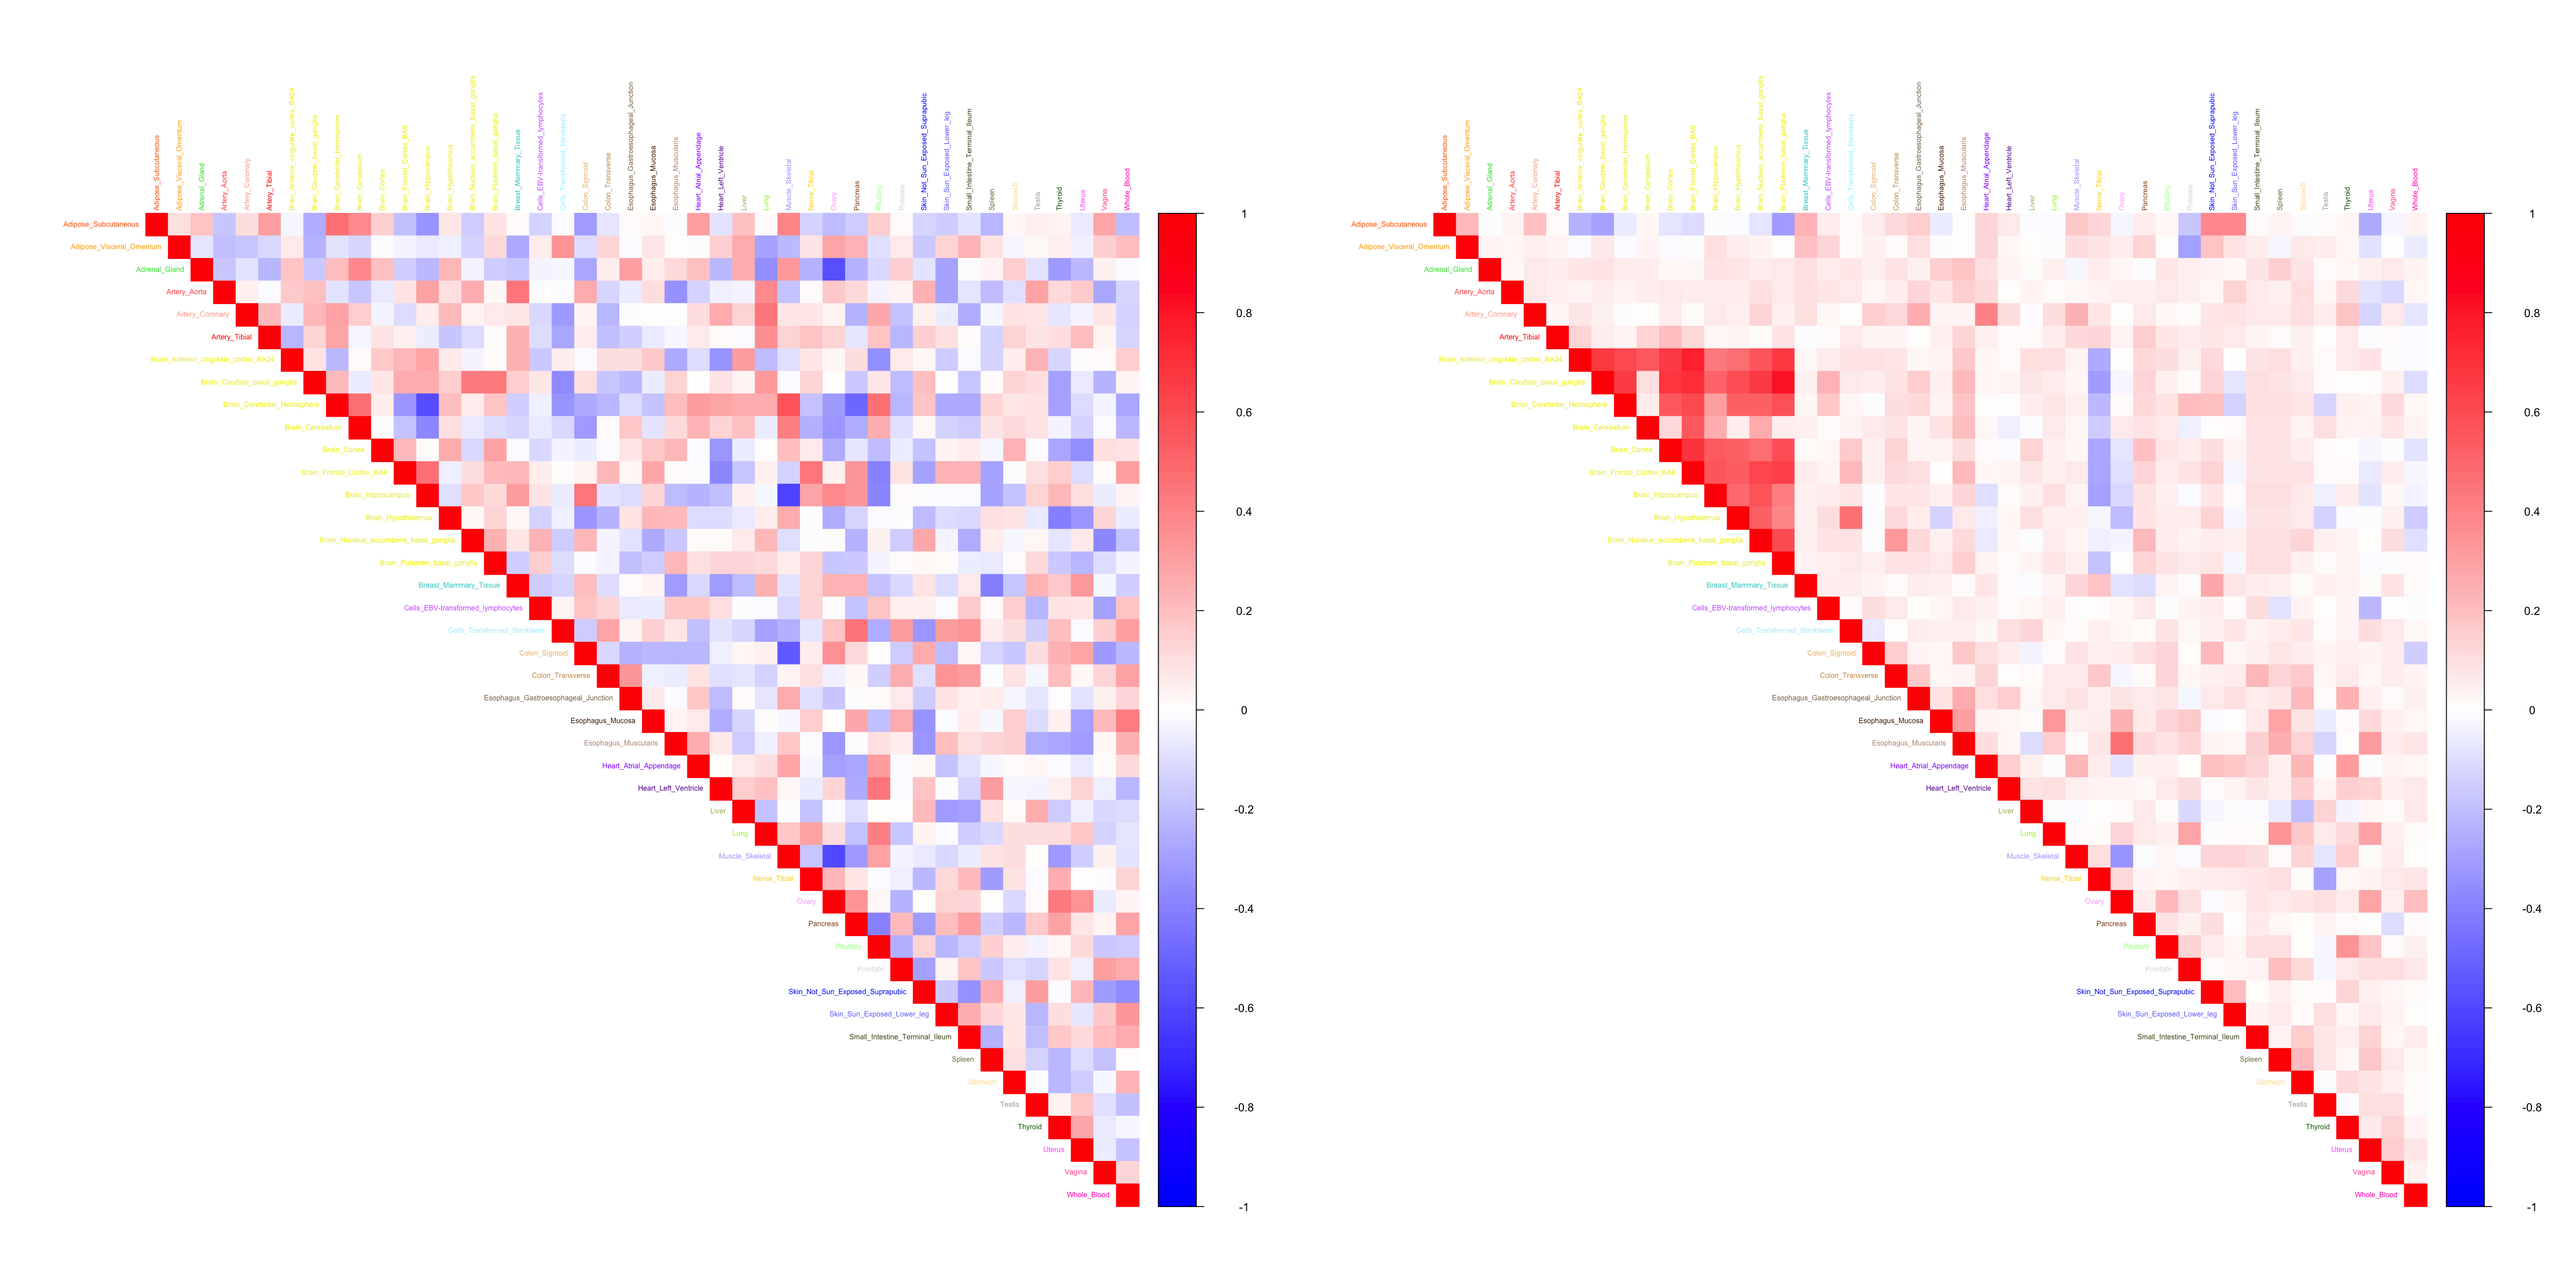
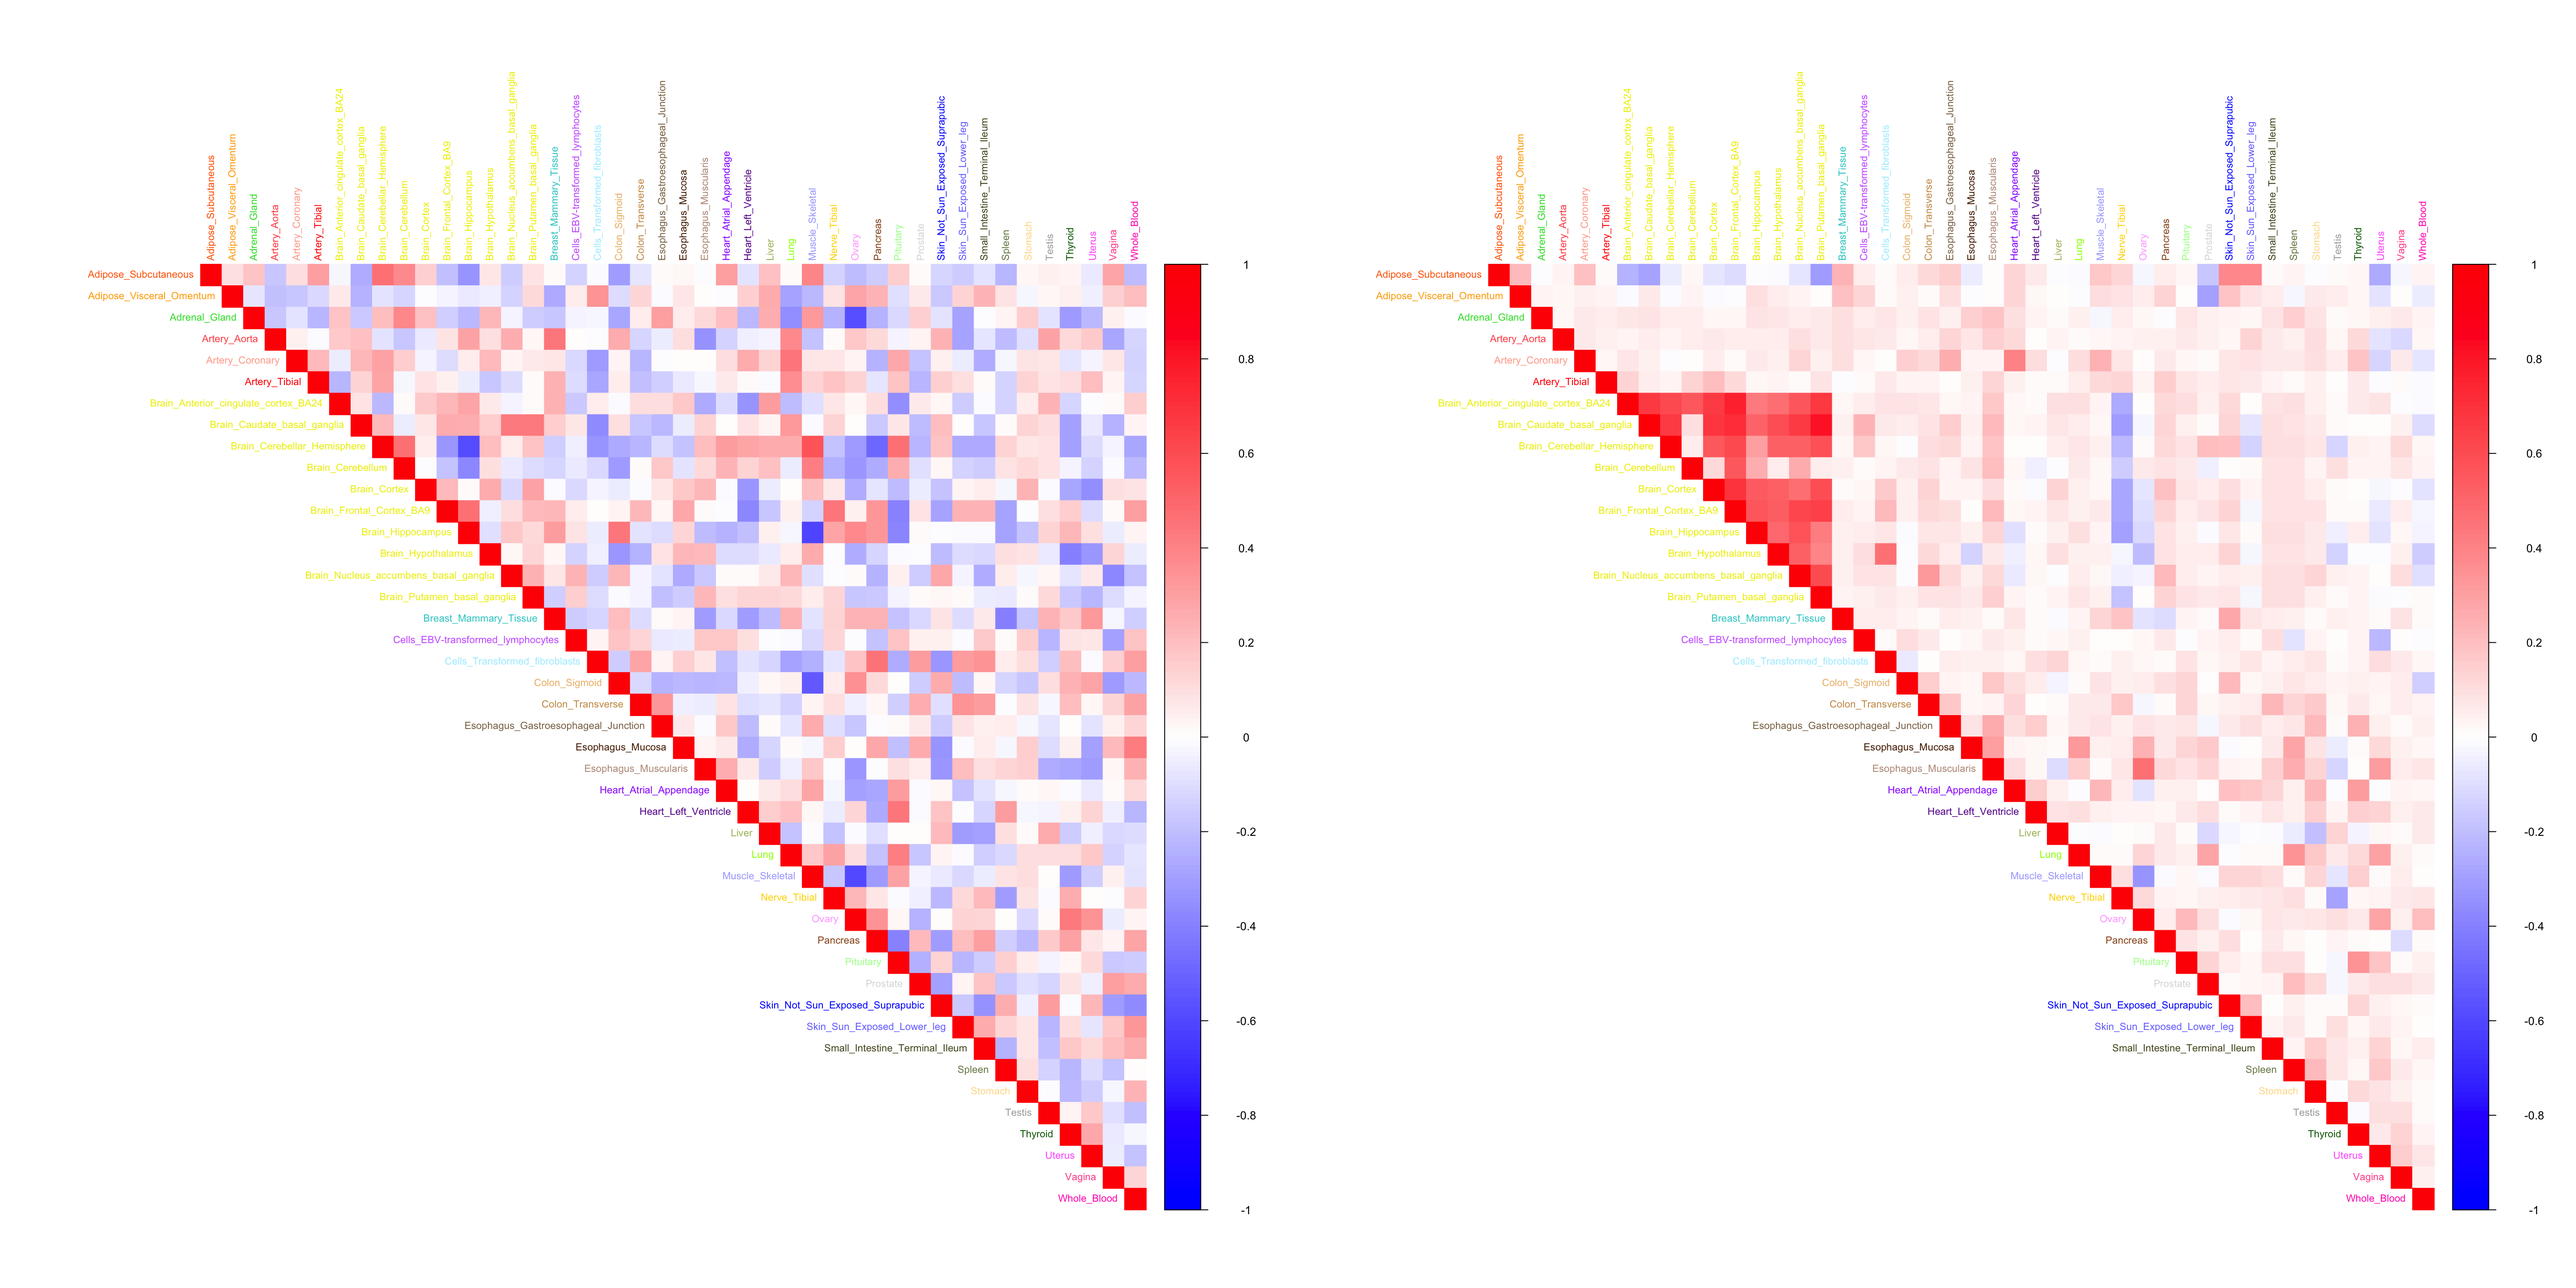
Build site.

Changed region(s): [[0.0312, 0.0938, 0.4688, 0.9375], [0.5312, 0.0938, 0.9688, 0.9375]]

diff --git a/docs/CorShrinkEQTL.html b/docs/CorShrinkEQTL.html
@@ -460,7 +460,7 @@ div.section {
 </details>
 </li>
 <li>
-<p><details> <summary> <strong style="color:blue;">✔</strong> <strong>Repository version:</strong> <a href="https://github.com/zouyuxin/GTEx/tree/a210b81f575dc6f0ca00343ff479f8a9546f5327" target="_blank">a210b81</a> </summary></p>
+<p><details> <summary> <strong style="color:blue;">✔</strong> <strong>Repository version:</strong> <a href="https://github.com/zouyuxin/GTEx/tree/45a32c79c75688fc3d385f68e4095e8850e825e8" target="_blank">45a32c7</a> </summary></p>
 Great! You are using Git for version control. Tracking code development and connecting the code version to the results is critical for reproducibility. The version displayed above was the version of the Git repository at the time these results were generated. <br><br> Note that you need to be careful to ensure that all relevant files for the analysis have been committed to Git prior to generating the results (you can use <code>wflow_publish</code> or <code>wflow_git_commit</code>). workflowr only checks the R Markdown file, but you know if there are other scripts or data files that it depends on. Below is the status of the Git repository when the results were generated:
 <pre><code>
 Ignored files:
@@ -508,6 +508,40 @@ Message
 </tr>
 </thead>
 <tbody>
+<tr>
+<td style="text-align:left;">
+Rmd
+</td>
+<td style="text-align:left;">
+<a href="https://github.com/zouyuxin/GTEx/blob/45a32c79c75688fc3d385f68e4095e8850e825e8/analysis/CorShrinkEQTL.Rmd" target="_blank">45a32c7</a>
+</td>
+<td style="text-align:left;">
+zouyuxin
+</td>
+<td style="text-align:left;">
+2019-01-23
+</td>
+<td style="text-align:left;">
+wflow_publish(“analysis/CorShrinkEQTL.Rmd”)
+</td>
+</tr>
+<tr>
+<td style="text-align:left;">
+html
+</td>
+<td style="text-align:left;">
+<a href="https://cdn.rawgit.com/zouyuxin/GTEx/65128e55157339c5f89b3bce35aa0b3fc38965bf/docs/CorShrinkEQTL.html" target="_blank">65128e5</a>
+</td>
+<td style="text-align:left;">
+zouyuxin
+</td>
+<td style="text-align:left;">
+2019-01-23
+</td>
+<td style="text-align:left;">
+Build site.
+</td>
+</tr>
 <tr>
 <td style="text-align:left;">
 Rmd
@@ -696,7 +730,7 @@ colnames(tmp) = row.names(stronggene)
 row.names(tmp) = colnames(tmp)
 g1 &lt;- corrplot(tmp, 
                col = colorRampPalette(col2)(200),
-               tl.pos = &quot;td&quot;, tl.cex = 0.5, tl.col = gtex.colors,
+               tl.pos = &quot;td&quot;, tl.cex = 0.7, tl.col = gtex.colors,
                rect.col = &quot;white&quot;,na.label.col = &quot;white&quot;,
                method = &quot;color&quot;, type = &quot;upper&quot;) 
 
@@ -705,7 +739,7 @@ colnames(tmp) = row.names(stronggene)
 row.names(tmp) = colnames(tmp)
 g2 &lt;- corrplot(tmp, 
                col = colorRampPalette(col2)(200),
-               tl.pos = &quot;td&quot;, tl.cex = 0.5, tl.col = gtex.colors,
+               tl.pos = &quot;td&quot;, tl.cex = 0.7, tl.col = gtex.colors,
                rect.col = &quot;white&quot;,na.label.col = &quot;white&quot;,
                method = &quot;color&quot;, type = &quot;upper&quot;) </code></pre>
 <p><img src="figure/CorShrinkEQTL.Rmd/unnamed-chunk-4-1.png" width="2880" style="display: block; margin: auto;" /></p>
@@ -725,6 +759,17 @@ Date
 </tr>
 </thead>
 <tbody>
+<tr>
+<td style="text-align:left;">
+<a href="https://github.com/zouyuxin/GTEx/blob/65128e55157339c5f89b3bce35aa0b3fc38965bf/docs/figure/CorShrinkEQTL.Rmd/unnamed-chunk-4-1.png" target="_blank">65128e5</a>
+</td>
+<td style="text-align:left;">
+zouyuxin
+</td>
+<td style="text-align:left;">
+2019-01-23
+</td>
+</tr>
 <tr>
 <td style="text-align:left;">
 <a href="https://github.com/zouyuxin/GTEx/blob/b78df8e03ba46348d30704e6100384187b432644/docs/figure/CorShrinkEQTL.Rmd/unnamed-chunk-4-1.png" target="_blank">b78df8e</a>
